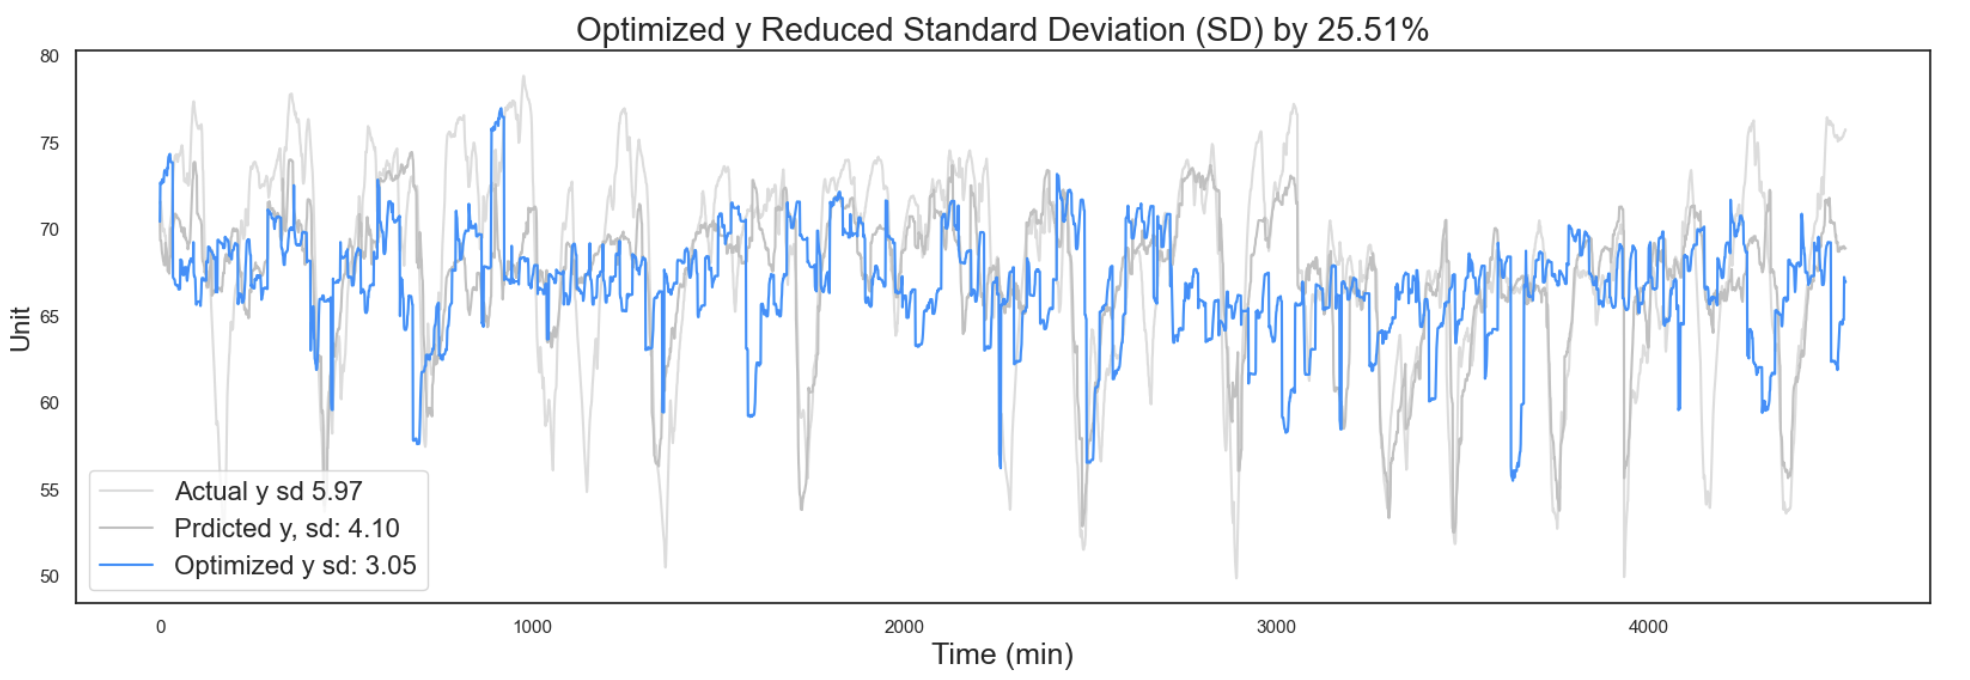
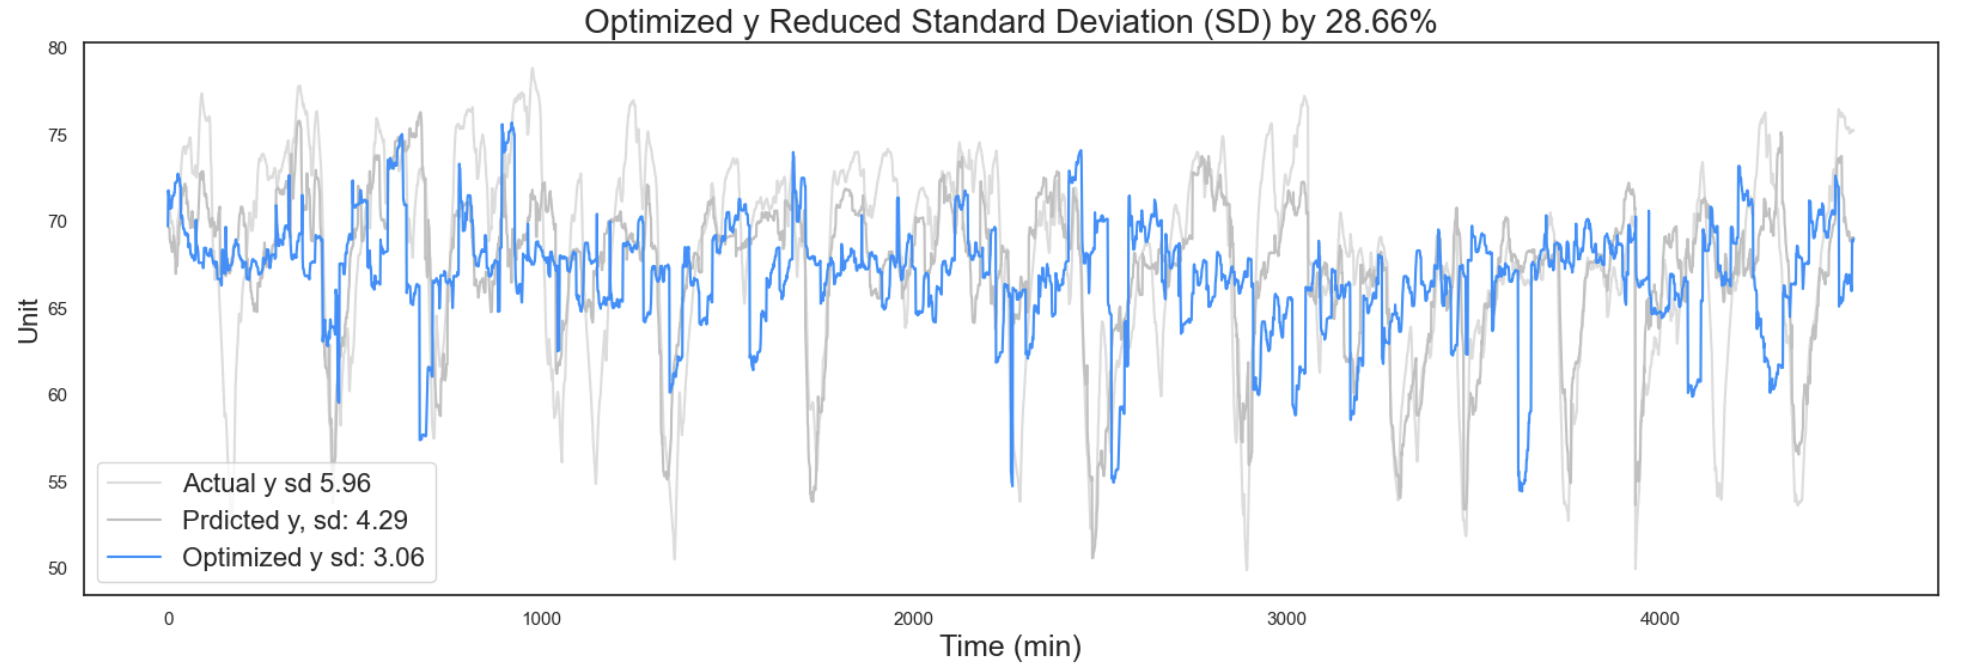
Added_Comments

diff --git a/README.md b/README.md
@@ -43,7 +43,7 @@ The math representation of the problem is shown below.
 
 ![Math representation](./resources/math.png)
 
-The graph below shows the optimized decisions' results: we managed to reduce the standard deviation by 25% compared to previous actions.
+The graph below shows the optimized decisions' results: we managed to reduce the standard deviation by 28% compared to previous actions.
 
 ![All Together](./resources/All_together.png)
 
